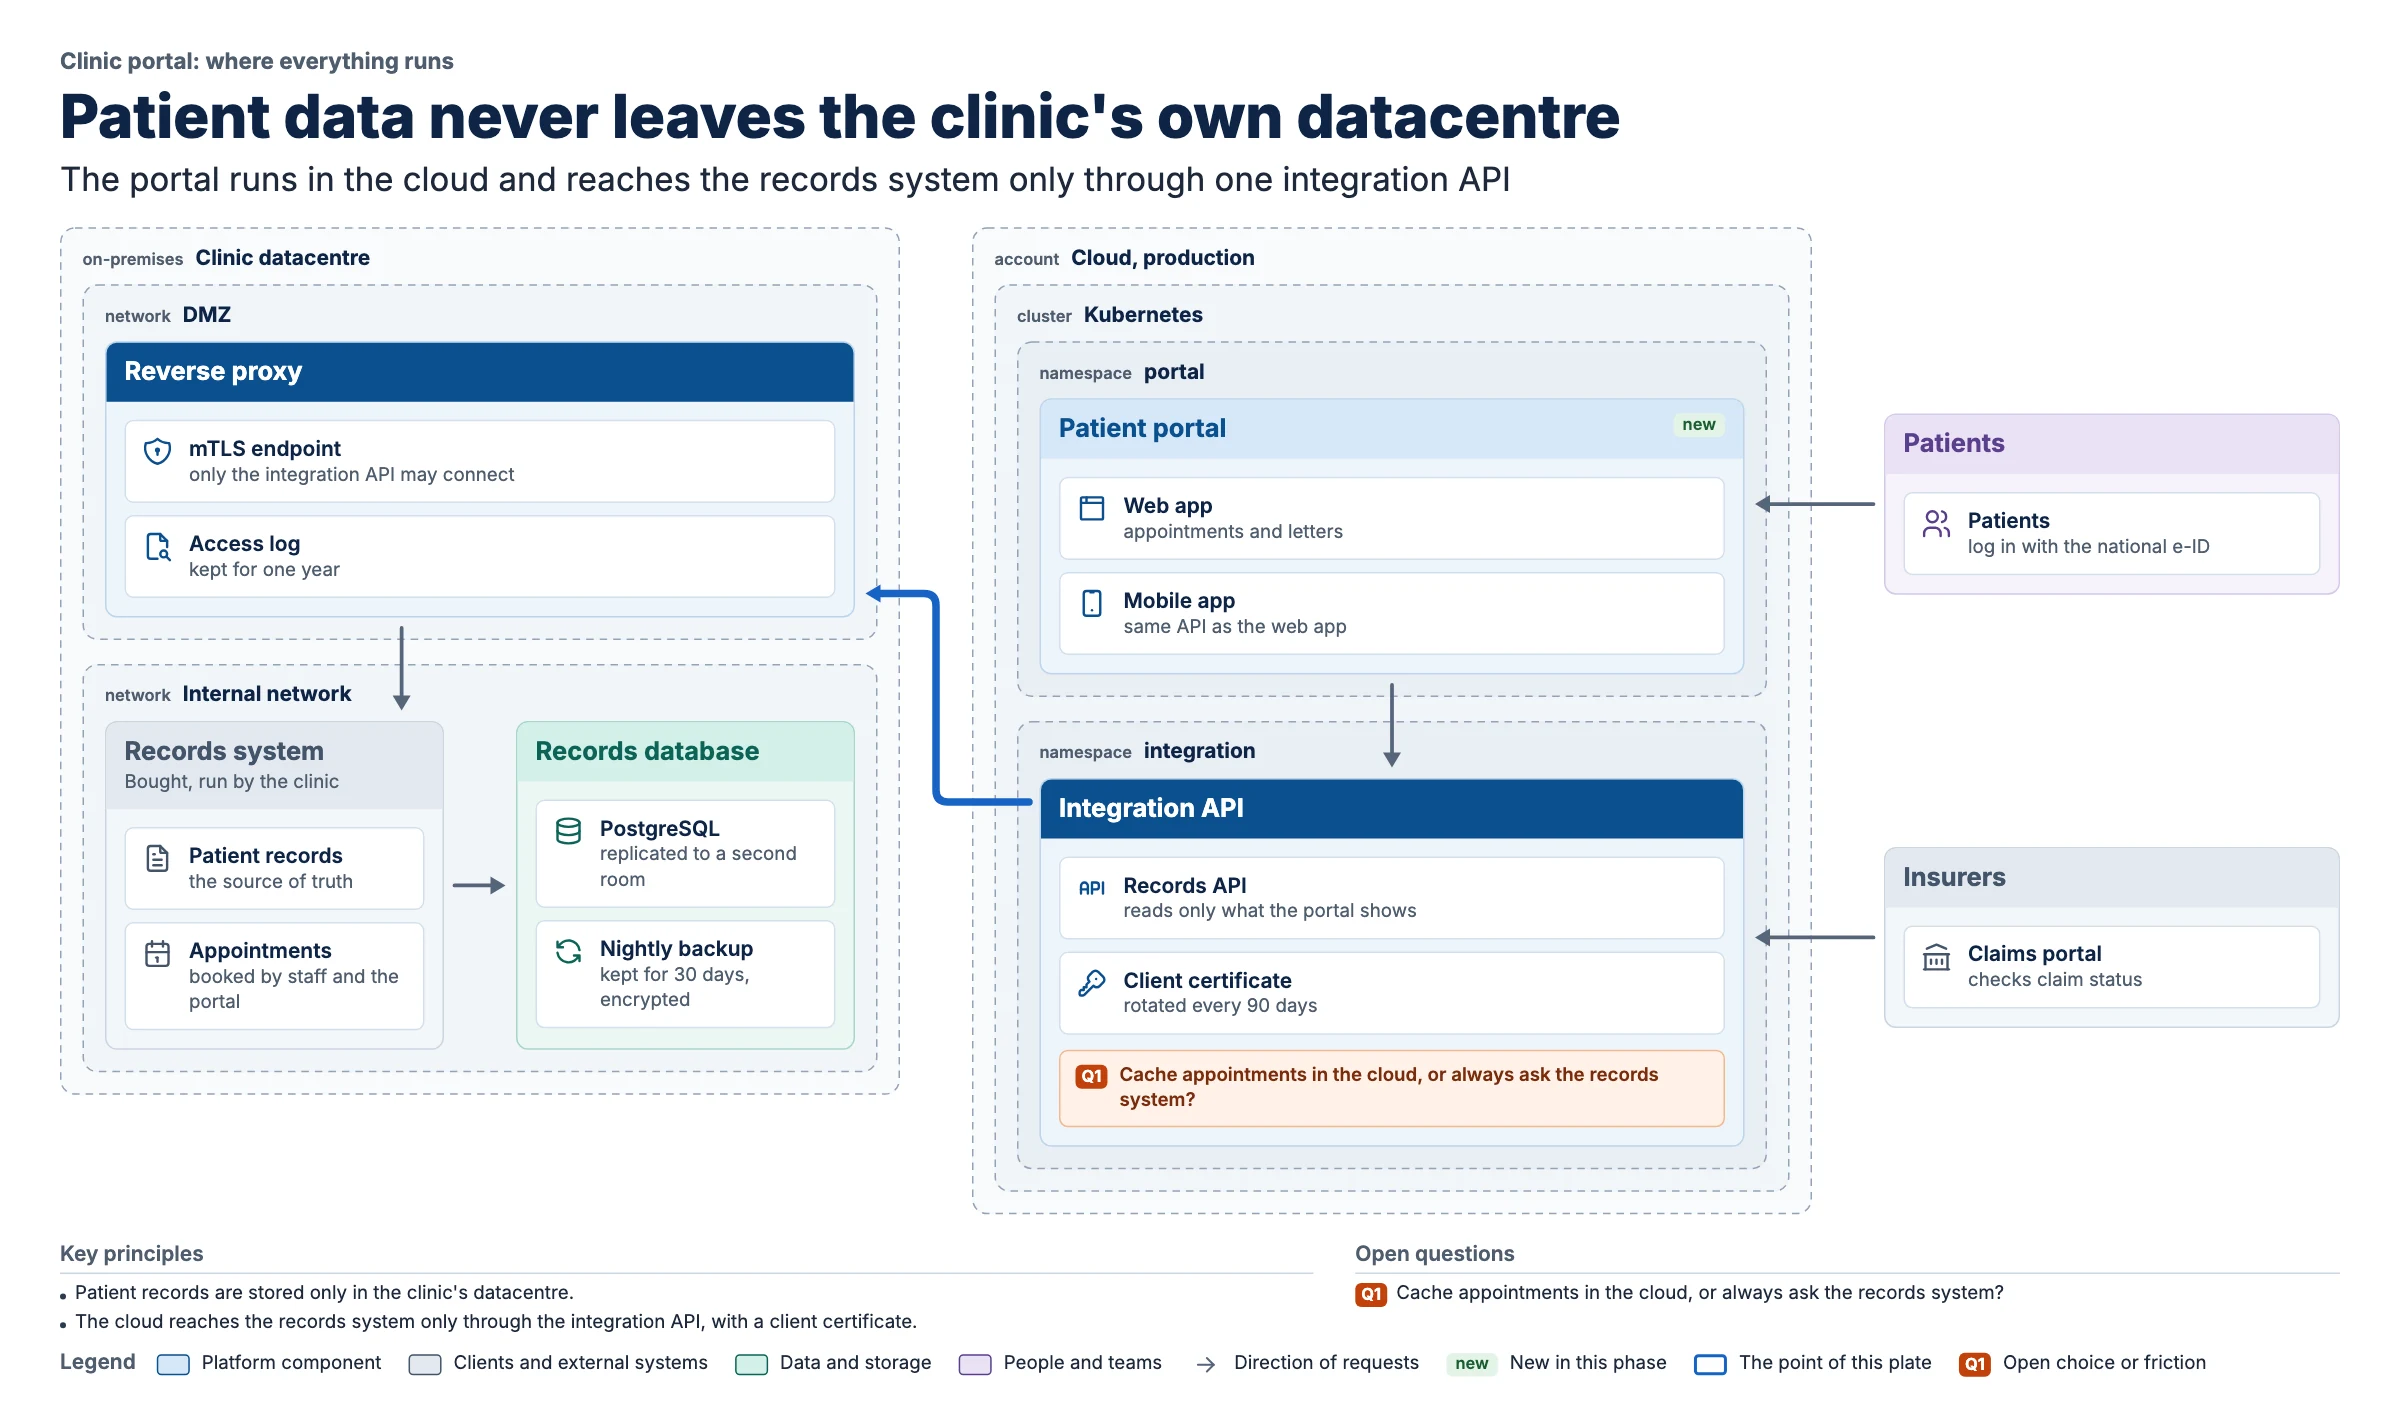
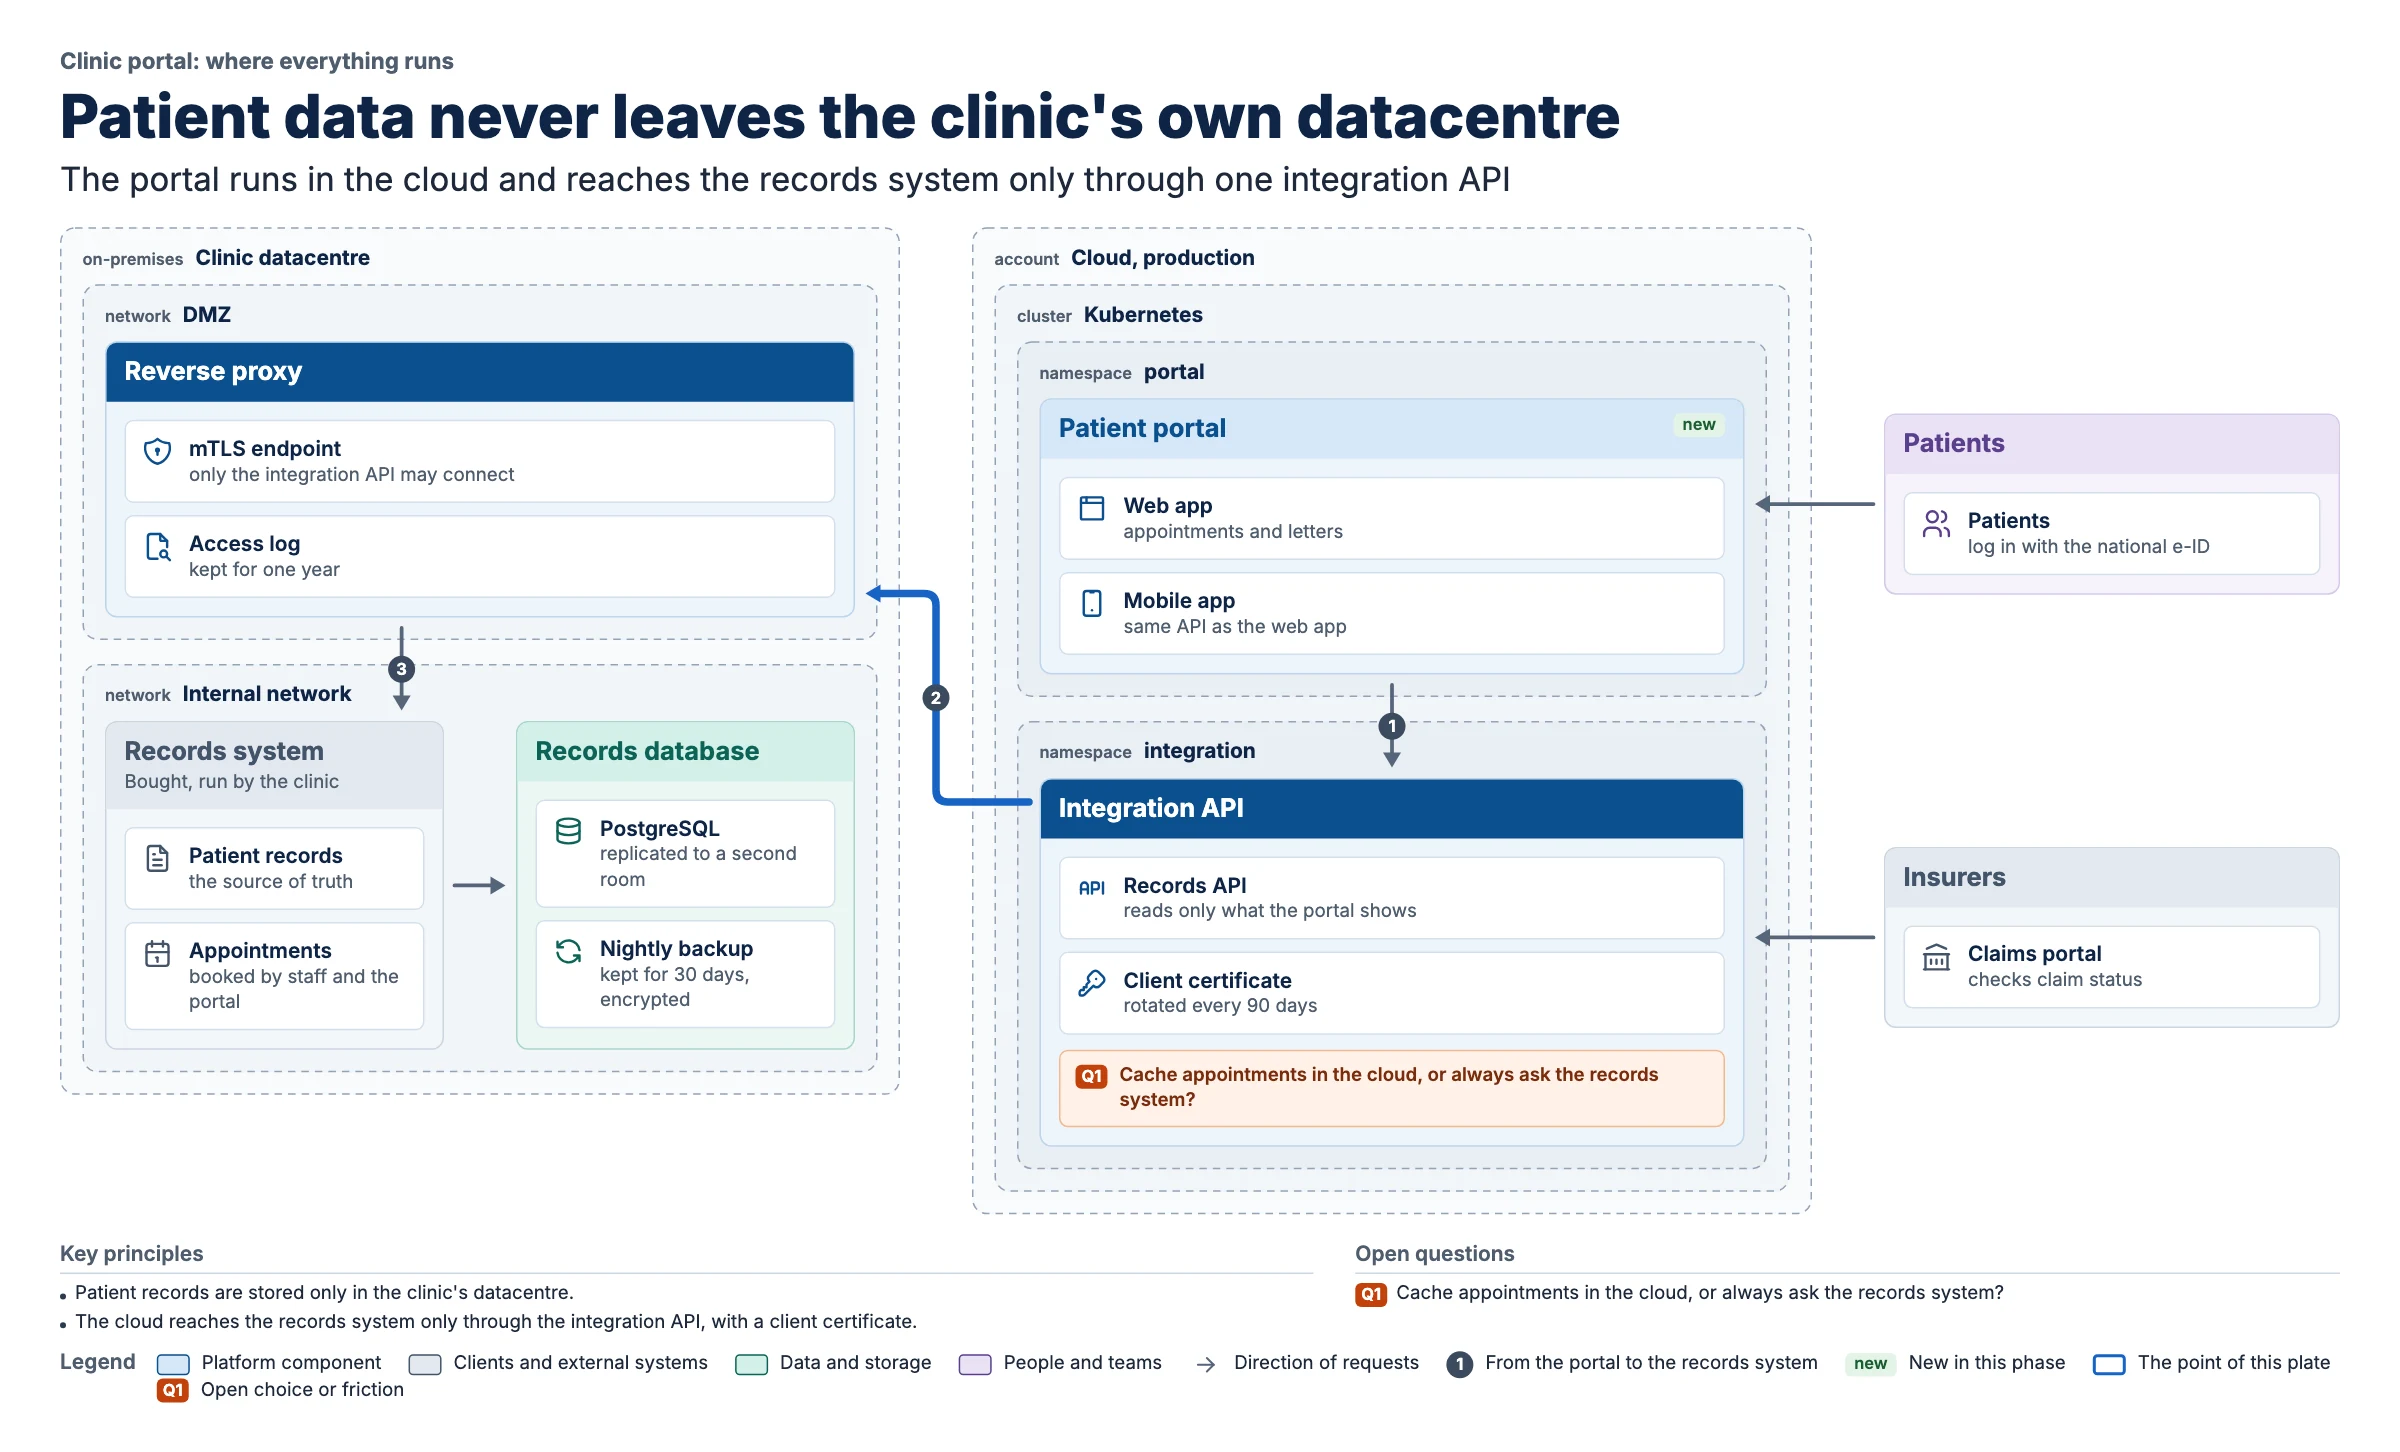
Draw a story's route on the plate
A story was checked by lint but never shown, so the route a title
promises was invisible to the reader. draw: true numbers the story's
flows 1 to n with step badges and names the route in the legend. One
drawn story per plate, and its flows take no step of their own. An
arrow across one narrow gutter has no run long enough for a badge, so
it is pinned on the arrow's tail. Every starter draws its story, as do
the clinic and roadmap examples.

diff --git a/schemantic/js/route.js b/schemantic/js/route.js
@@ -570,14 +570,18 @@ schemantic.route = (flows) => {
       const k = (BADGE + 2) / len;
       return [p[0] + (q[0] - p[0]) * k, p[1] + (q[1] - p[1]) * k];
     };
-    const spot = longestFirst(r.pts)
-      .filter((run) => runLength(run) >= 2 * BADGE + HEAD + 4)
-      .map(centre)
-      .find(([x, y]) => {
-        const b = { l: x - BADGE - 2, r: x + BADGE + 2, t: y - BADGE - 2, b: y + BADGE + 2 };
-        // A badge sits on its own arrow, so it only has to keep off what the arrow keeps off (not its endpoints' panels).
-        return !r.obstacles.some((o) => hits(b, o)) && !labelBoxes.some((o) => hits(b, o));
-      });
+    const clear = ([x, y]) => {
+      const b = { l: x - BADGE - 2, r: x + BADGE + 2, t: y - BADGE - 2, b: y + BADGE + 2 };
+      // A badge sits on its own arrow, so it only has to keep off what the arrow keeps off (not its endpoints' panels).
+      return !r.obstacles.some((o) => hits(b, o)) && !labelBoxes.some((o) => hits(b, o));
+    };
+    // An arrow across one narrow gutter (between rows, from a hub to its spoke) has no run that long: its badge is
+    // pinned on the tail, where the arrow leaves its source.
+    const spot =
+      longestFirst(r.pts)
+        .filter((run) => runLength(run) >= 2 * BADGE + HEAD + 4)
+        .map(centre)
+        .find(clear) || [r.pts[0]].find(clear);
     if (!spot) {
       problems.push({
         i: r.i,

diff --git a/tests/test_spec.py b/tests/test_spec.py
@@ -433,6 +433,28 @@ def test_a_story_through_cards_says_when_only_their_panels_are_joined():
     assert [f for f in sp.check(spec) if f["check"] == "story"] == []
 
 
+def test_a_drawn_story_numbers_its_route_and_names_it_in_the_legend():
+    """`draw: true` gives the story's flows step badges 1 to n, in the route's order, and the legend says which route."""
+    spec = sp.load_spec(ROOT / "examples" / "kliniek-zones.yaml")
+    story = spec["stories"][0]
+    assert story["draw"] and not any(f.get("step") for f in spec["flows"])
+    numbered = sp.number_story(spec)
+    steps = {(f["from"], f["to"]): f["step"] for f in numbered["flows"] if f.get("step")}
+    assert steps == {("portal", "integration"): 1, ("integration", "proxy"): 2, ("proxy", "ehr"): 3}
+    assert not any(f.get("step") for f in spec["flows"])  # the spec as written is left alone
+    legend = html.legend_entries(numbered, sp.load_locale("en"))
+    assert {"kind": "step", "key": "step", "label": story["name"]} in legend
+
+
+def test_a_plate_draws_one_story_and_it_owns_the_steps():
+    spec = sp.load_spec(ROOT / "examples" / "kliniek-zones.yaml")
+    spec["stories"].append(dict(spec["stories"][0], name="Again"))
+    spec["flows"][0]["step"] = 7
+    found = [(f["id"], f["detail"]) for f in sp.check(spec) if f["check"] == "story"]
+    assert ("stories/1", "only one story is drawn: a plate numbers one route") in found
+    assert ("flows/0", "the drawn story numbers its own flows; drop this flow's step 7") in found
+
+
 def test_roadmap_lanes_tint_now_and_arrows_run_forward():
     spec = sp.load_spec(ROOT / "examples" / "portal-roadmap.yaml")
     page = html.build_html(spec)

diff --git a/schemantic/spec.py b/schemantic/spec.py
@@ -242,7 +242,29 @@ def story_findings(spec: dict, known: set[str]) -> list[dict]:
             if (home.get(a, a), home.get(b, b)) in joined:
                 detail += f" (a flow joins their panels, '{home.get(a, a)}' to '{home.get(b, b)}'; the route goes through the cards)"
             out.append(finding("story", where, detail))
+    drawn = [n for n, s in enumerate(spec.get("stories", [])) if s.get("draw")]
+    out += [finding("story", f"stories/{n}", "only one story is drawn: a plate numbers one route") for n in drawn[1:]]
+    if drawn:
+        out += [finding("story", f"flows/{n}", f"the drawn story numbers its own flows; drop this flow's step {f['step']}")
+                for n, f in enumerate(spec.get("flows", [])) if f.get("step")]
     return out
+
+
+def drawn_story(spec: dict) -> dict | None:
+    return next((s for s in spec.get("stories", []) if s.get("draw")), None)
+
+
+def number_story(spec: dict) -> dict:
+    """A drawn story numbers the flows along its route, 1 to n, so the reader sees the route the title names. Runs on
+    a spec that checked clean: every step of the story has its flow, and no flow has a step of its own."""
+    story = drawn_story(spec)
+    if not story:
+        return spec
+    flows = [dict(f) for f in spec["flows"]]
+    for n, (a, b) in enumerate(pairwise(story["path"]), 1):
+        f = next(f for f in flows if (f["from"], f["to"]) == (a, b) or f.get("both") and (f["from"], f["to"]) == (b, a))
+        f.setdefault("step", n)  # a route that passes one flow twice keeps its first number
+    return {**spec, "flows": flows}
 
 
 def traceability(spec: dict) -> list[dict]:

diff --git a/schemantic/html.py b/schemantic/html.py
@@ -6,7 +6,7 @@ from jinja2 import Environment, FileSystemLoader, select_autoescape
 from . import archetypes, icons, roles
 from .config import CANVAS_SIZES, TEMPLATES
 from .export import font_css
-from .spec import FOOTER_WEIGHTS, card_id, flags, footer_layout, load_locale, notes, open_questions
+from .spec import FOOTER_WEIGHTS, card_id, drawn_story, flags, footer_layout, load_locale, notes, open_questions
 
 
 def grid_css(spec: dict) -> dict:
@@ -76,8 +76,9 @@ def legend_entries(spec: dict, loc: dict, theme_css: str = "") -> list[dict]:
         # The meaning entry already shows a solid arrow, so only the other line styles get an entry.
         styles = [s for s in ("async", "optional") if any(f.get("style") == s for f in flows)]
         entries += [{"kind": "line", "key": s, "label": lg[f"style_{s}"]} for s in styles]
-        if any(f.get("step") for f in flows):
-            entries.append({"kind": "step", "key": "step", "label": lg["step"]})
+        if any(f.get("step") for f in flows):  # a drawn story's steps are its route: the legend names it
+            story = drawn_story(spec)
+            entries.append({"kind": "step", "key": "step", "label": story["name"] if story else lg["step"]})
     things = [p for p in spec["panels"]] + [c for p in spec["panels"] for c in p.get("cards", [])]
     for st in ("new", "changed", "planned", "deprecated", "removed"):
         if any(t.get("status") == st for t in things):

diff --git a/schemantic/pipeline.py b/schemantic/pipeline.py
@@ -23,7 +23,7 @@ from .images import image_diff, snapshot
 from .lint import dom_lint, layout_findings
 from .review import RASTER_SCALE, write_crops
 from .route import draw_flows, problems_as_findings
-from .spec import check, read_spec
+from .spec import check, number_story, read_spec
 
 
 def load_theme(spec: dict, spec_path: Path, theme: str | Path | None) -> tuple[str, list[dict]]:
@@ -54,6 +54,8 @@ def prepare(spec_path: Path, theme: str | Path | None, theme_css: str) -> tuple[
         theme_css = "\n".join(c for c in (file_css, theme_css) if c)
     if not issues:
         issues = check(spec, theme_css)
+    if not any(i["level"] == "error" for i in issues):
+        spec = number_story(spec)
     return spec, theme_css, issues
 
 

diff --git a/references/spec-guide.md b/references/spec-guide.md
@@ -105,13 +105,15 @@ and a line style only when the plate uses it.
 ## Stories
 
 When the title or subtitle tells a route ("the portal reaches the records system only through one API"), write it
-down as a story: the steps a reader's finger follows, first to last. Stories are not drawn; lint (`story`) checks
-that a flow runs from every step to the next, in that direction (or with `both`).
+down as a story: the steps a reader's finger follows, first to last. Lint (`story`) checks that a flow runs from
+every step to the next, in that direction (or with `both`). Draw the story the title names (`draw: true`): its flows
+get step badges 1 to n and the legend names the route, so the reader sees it, not only lint.
 
 ```yaml
 stories:                                              # up to 4
-  - name: "From the portal to the records system"     # 60, the route in the title's words
+  - name: "From the portal to the records system"     # 60, the route in the title's words; the legend shows it
     path: [portal, integration, proxy, ehr]           # card or panel ids; 2 to 10
+    draw: true                                        # one drawn story per plate; its flows take no `step`
 ```
 
 A route through cards needs flows between those cards, not their panels; lint says when only the panels are joined.

diff --git a/CHANGELOG.md b/CHANGELOG.md
@@ -5,6 +5,10 @@ All notable changes to this project. The format follows [Keep a Changelog](https
 ## [Unreleased]
 
 ### Added
+- Drawn stories: `draw: true` on a story numbers its flows 1 to n on the plate and names the route in the legend, so
+  the route the title promises is something the reader sees, not only something lint checks. One per plate; its
+  flows take no `step` of their own. On an arrow across one narrow gutter the badge is pinned on the arrow's tail.
+  Every starter draws its story; the clinic and roadmap examples draw theirs.
 - Rail cards placed by layer: `layer: runtime` on a rail card puts it level with that layer's cards, so a rail reads
   across and an arrow to that layer runs straight. Checked (a real layer, rails only, top to bottom); a card that
   cannot reach its layer is a `rail-layer` warning. The layer plate's rails now name their layers.

diff --git a/SKILL.md b/SKILL.md
@@ -87,8 +87,8 @@ short version:
 
 - 3 to 6 panels, 2 to 6 cards each. A card is a thing with a name; its note says what it does in this story.
 - Say once what arrows mean (`flows_mean`). Connect panels by default; when the title or subtitle names a route
-  ("A via B to C"), give those cards ids, connect them card to card, and write the route as a `story`: lint then
-  checks that a finger can follow it, every step.
+  ("A via B to C"), give those cards ids, connect them card to card, and write the route as a `story` with
+  `draw: true`: lint checks that a finger can follow it, and the plate numbers its steps.
 - Show change with `status` (new, changed, planned, deprecated, removed) and the one element that matters with
   `focus`.
 - A `warning` chip or card `flag` marks an open choice; it appears again under open questions.
